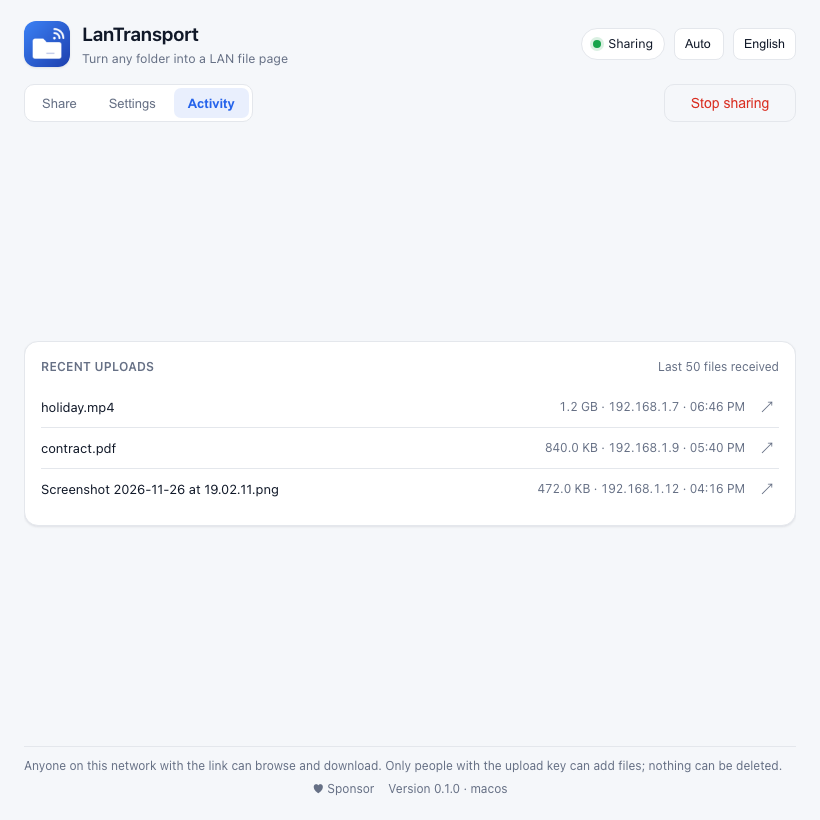
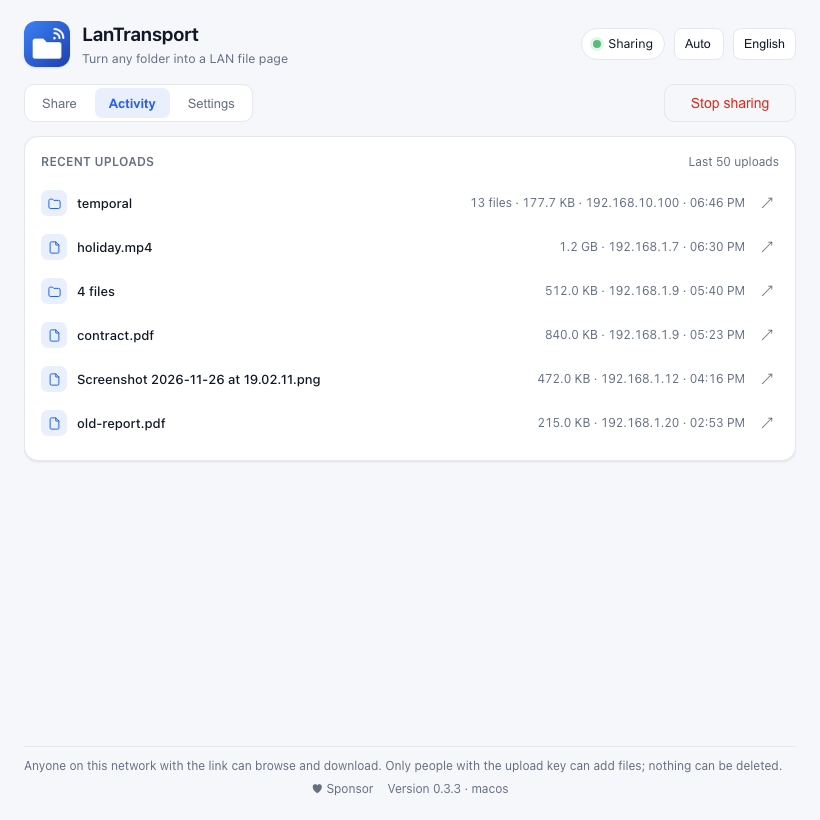
docs: retake the desktop screenshots (#54)
All three still showed the old tab order (Share/Settings/Activity), the
0.1.0 version and the pre-folder-card layout. Retaken from the current UI at
820x820: Share / Activity / Settings, Version 0.3.3, and Recent uploads with
the per-drop rows (folder name, file count, total size).

diff --git a/dev/mock-tauri.ts b/dev/mock-tauri.ts
@@ -5,7 +5,7 @@ const lang = params.get("lang") ?? "en";
 const locale = lang === "zh" || lang === "zh-CN" ? "zh-CN" : "en";
 
 const snapshot = {
-  version: "0.1.0",
+  version: "0.3.3",
   platform: "macos",
   settings: {
     shares: params.get("empty") === "1" ? [] : ["/Users/me/Downloads", "/Volumes/Photos"],
